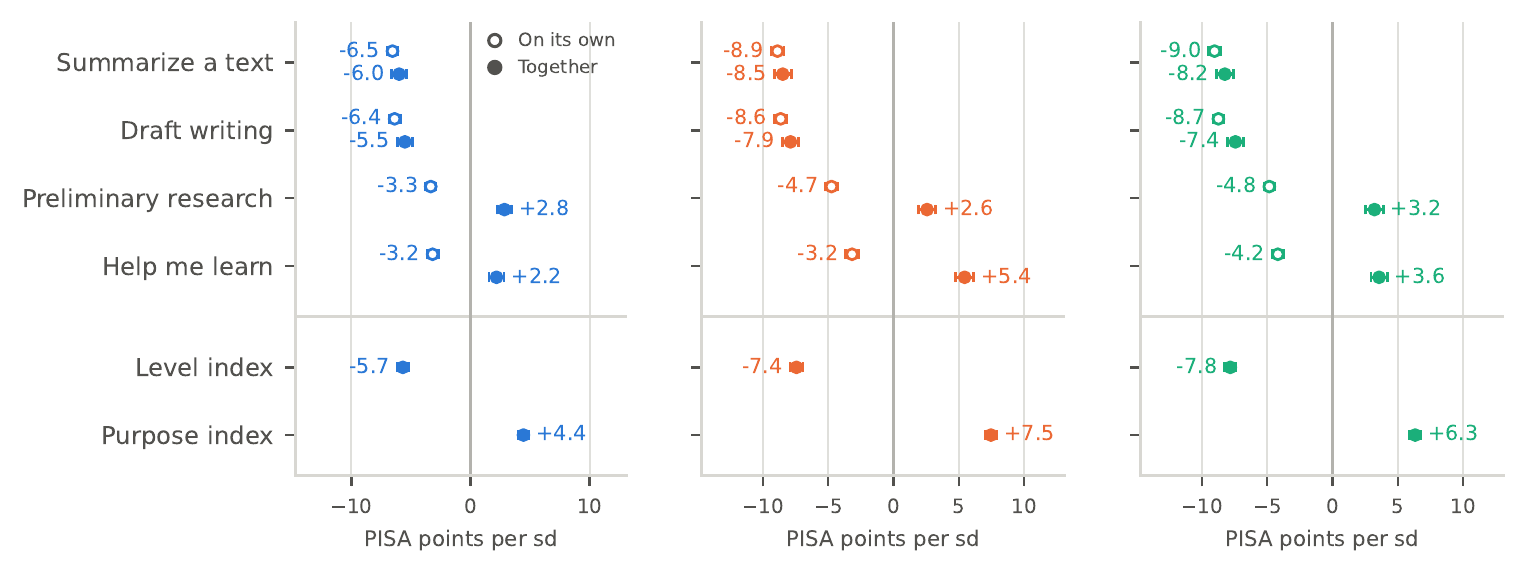
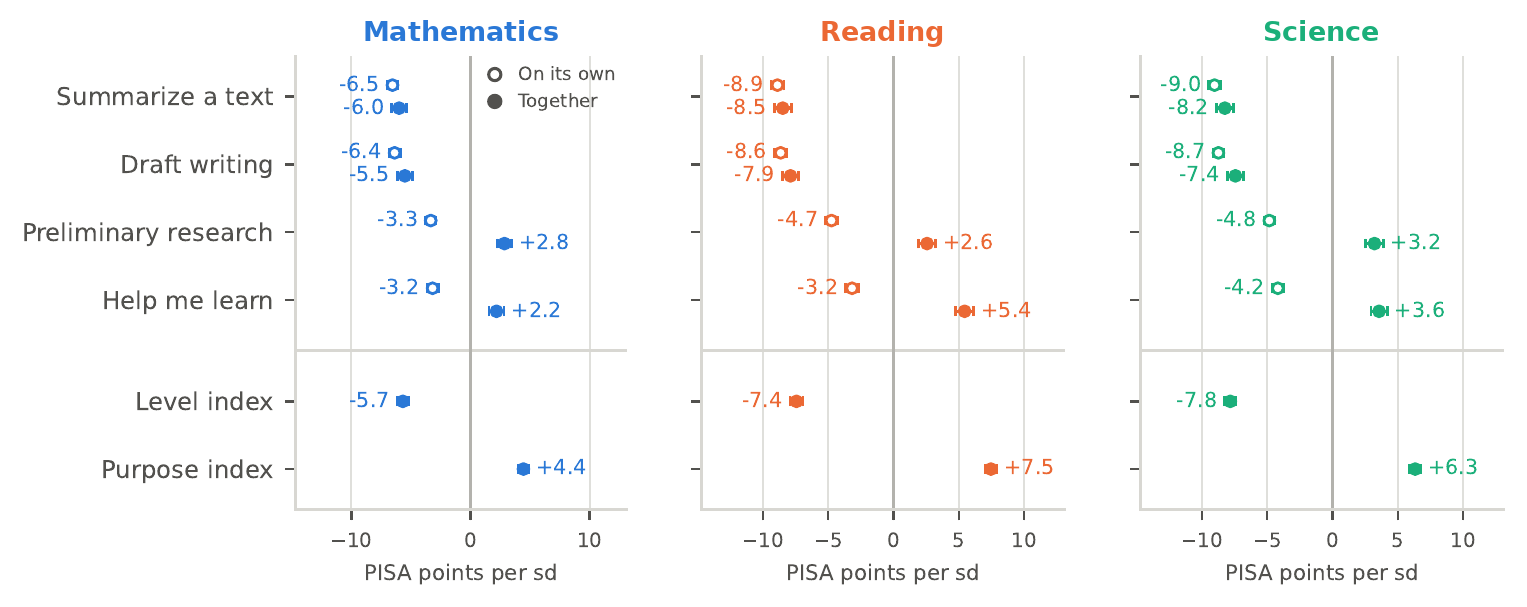
papers: label subjects on the GenAI/PISA purpose figure
- Each panel of the first insight figure now has a title (Mathematics,
  Reading, Science) in its series color; in the paper the panels are
  subfigures named by LaTeX subcaptions, so the stitched web image had none.
- Caption drops "(left to right)", which the titles make redundant.

diff --git a/papers/ai-use-pisa.html b/papers/ai-use-pisa.html
@@ -43,7 +43,7 @@
       <h2 class="label">Insights</h2>
       <figure class="insight">
         <img src="../assets/figures/ai-use-pisa-purpose.png" alt="Three coefficient plots for mathematics, reading, and science. On its own, each purpose of AI use goes with lower scores; entered together, research and learning have positive coefficients and summarizing and drafting negative ones, and the purpose index is positive.">
-        <figcaption>What students use AI <em>for</em> matters as much as how much they use it. Taken one at a time (hollow markers), every purpose goes with lower scores among schoolmates: 6 to 9 points per standard deviation for summarizing and drafting, and 3 to 5 for research and learning. Entered together (filled markers), the four questions compare purposes among students with the same level of use, and those who use AI more for research and learning score higher than those who use it more for summarizing and drafting. One standard deviation of the purpose index goes with 4.4 more points in mathematics, 7.5 in reading, and 6.3 in science (left to right). This is a comparison between purposes, not evidence that any use of AI raises scores.</figcaption>
+        <figcaption>What students use AI <em>for</em> matters as much as how much they use it. Taken one at a time (hollow markers), every purpose goes with lower scores among schoolmates: 6 to 9 points per standard deviation for summarizing and drafting, and 3 to 5 for research and learning. Entered together (filled markers), the four questions compare purposes among students with the same level of use, and those who use AI more for research and learning score higher than those who use it more for summarizing and drafting. One standard deviation of the purpose index goes with 4.4 more points in mathematics, 7.5 in reading, and 6.3 in science. This is a comparison between purposes, not evidence that any use of AI raises scores.</figcaption>
       </figure>
       <figure class="insight">
         <img src="../assets/figures/ai-use-pisa-level.png" alt="Coefficient plot of the level index of AI use on PISA scores across specifications. All estimates are negative, and the association is largest when students are compared with their own schoolmates.">
